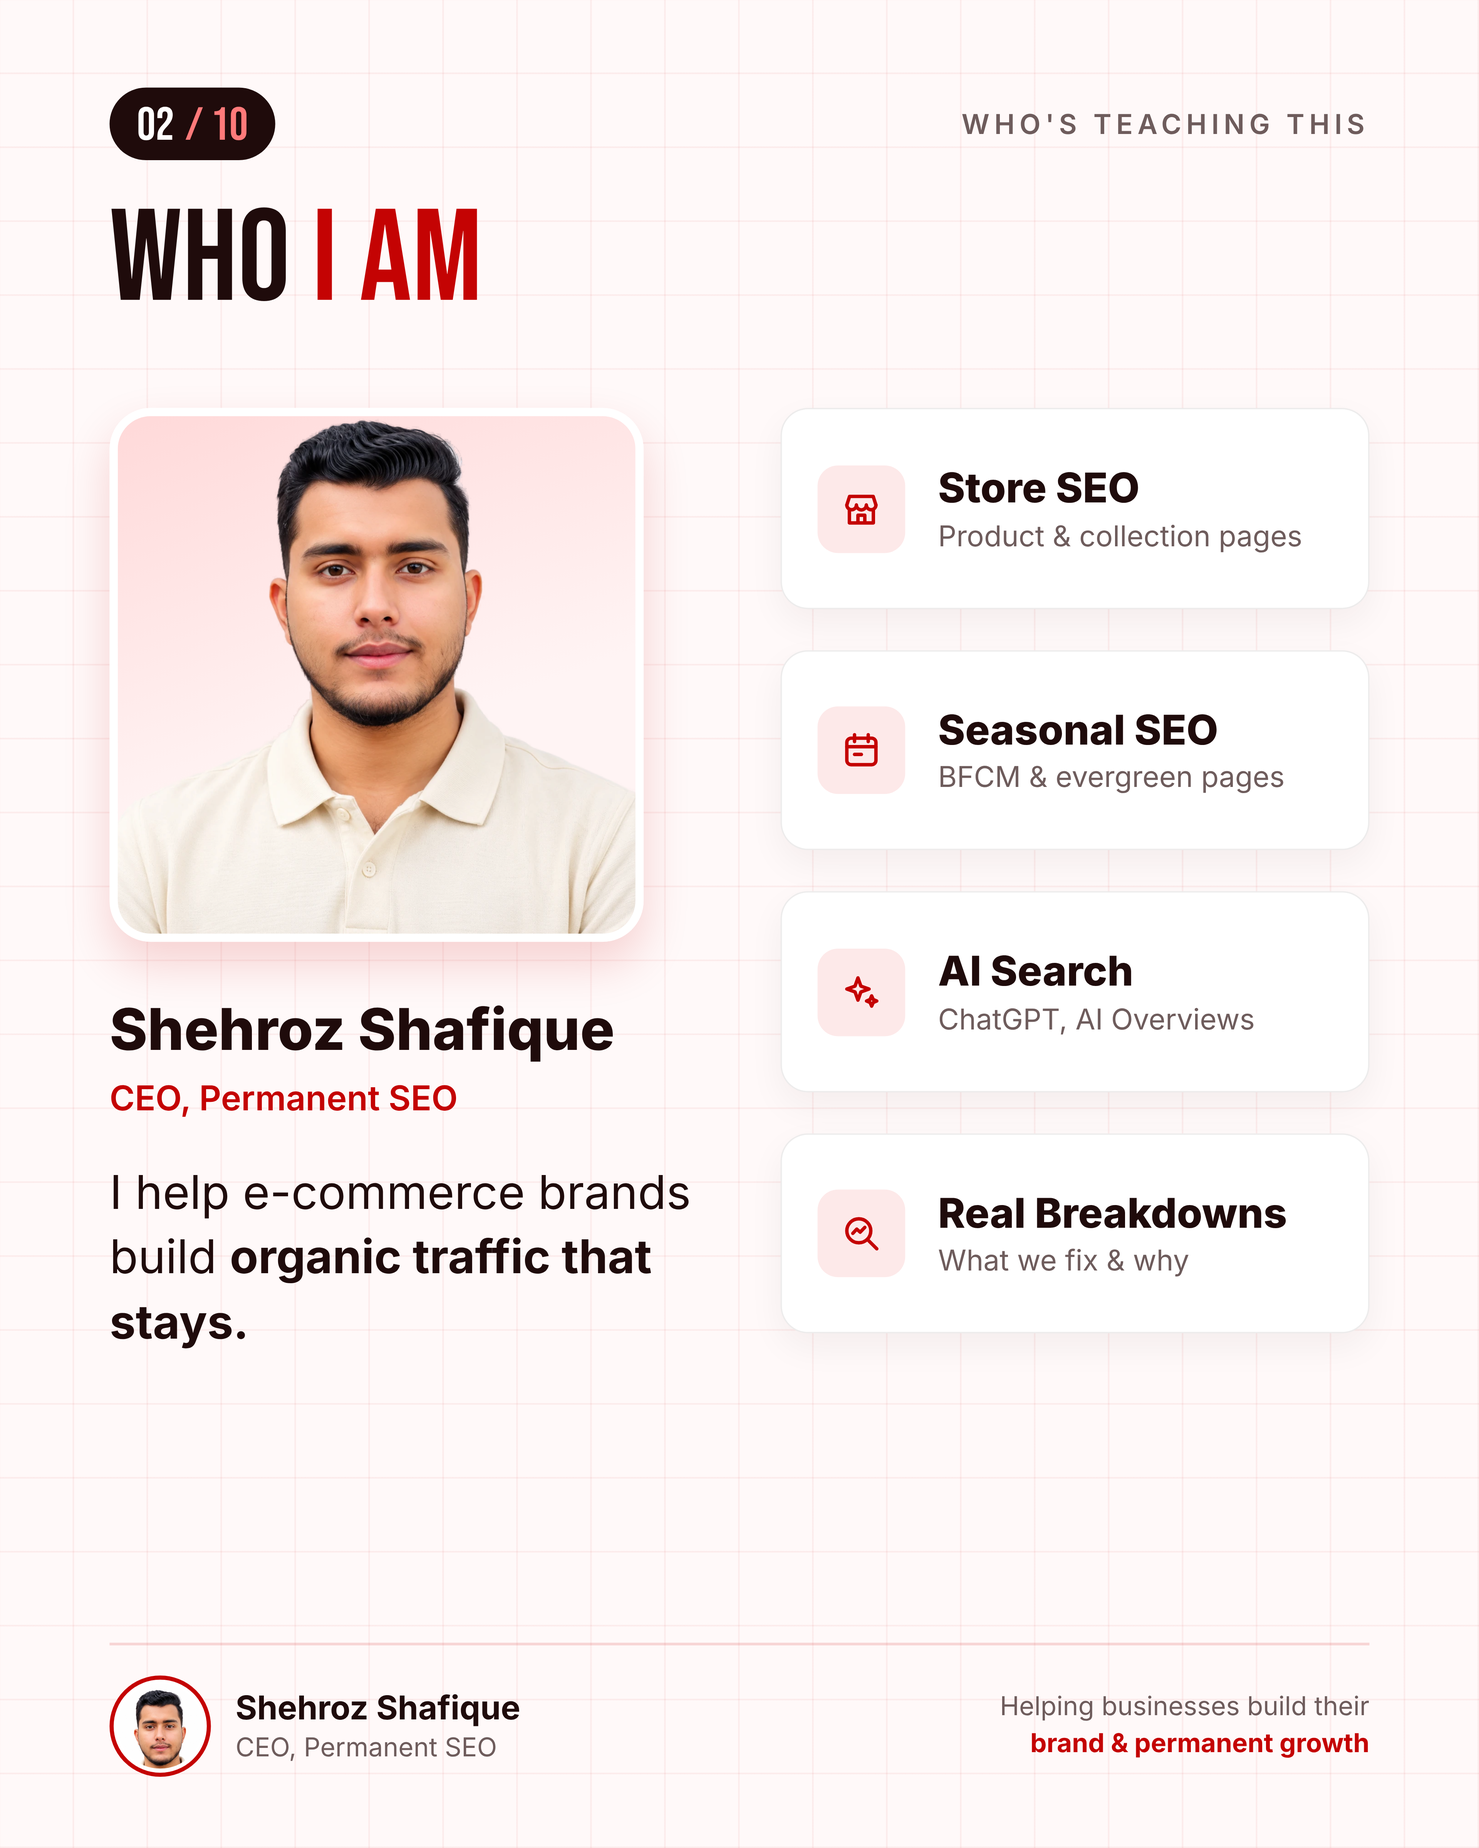
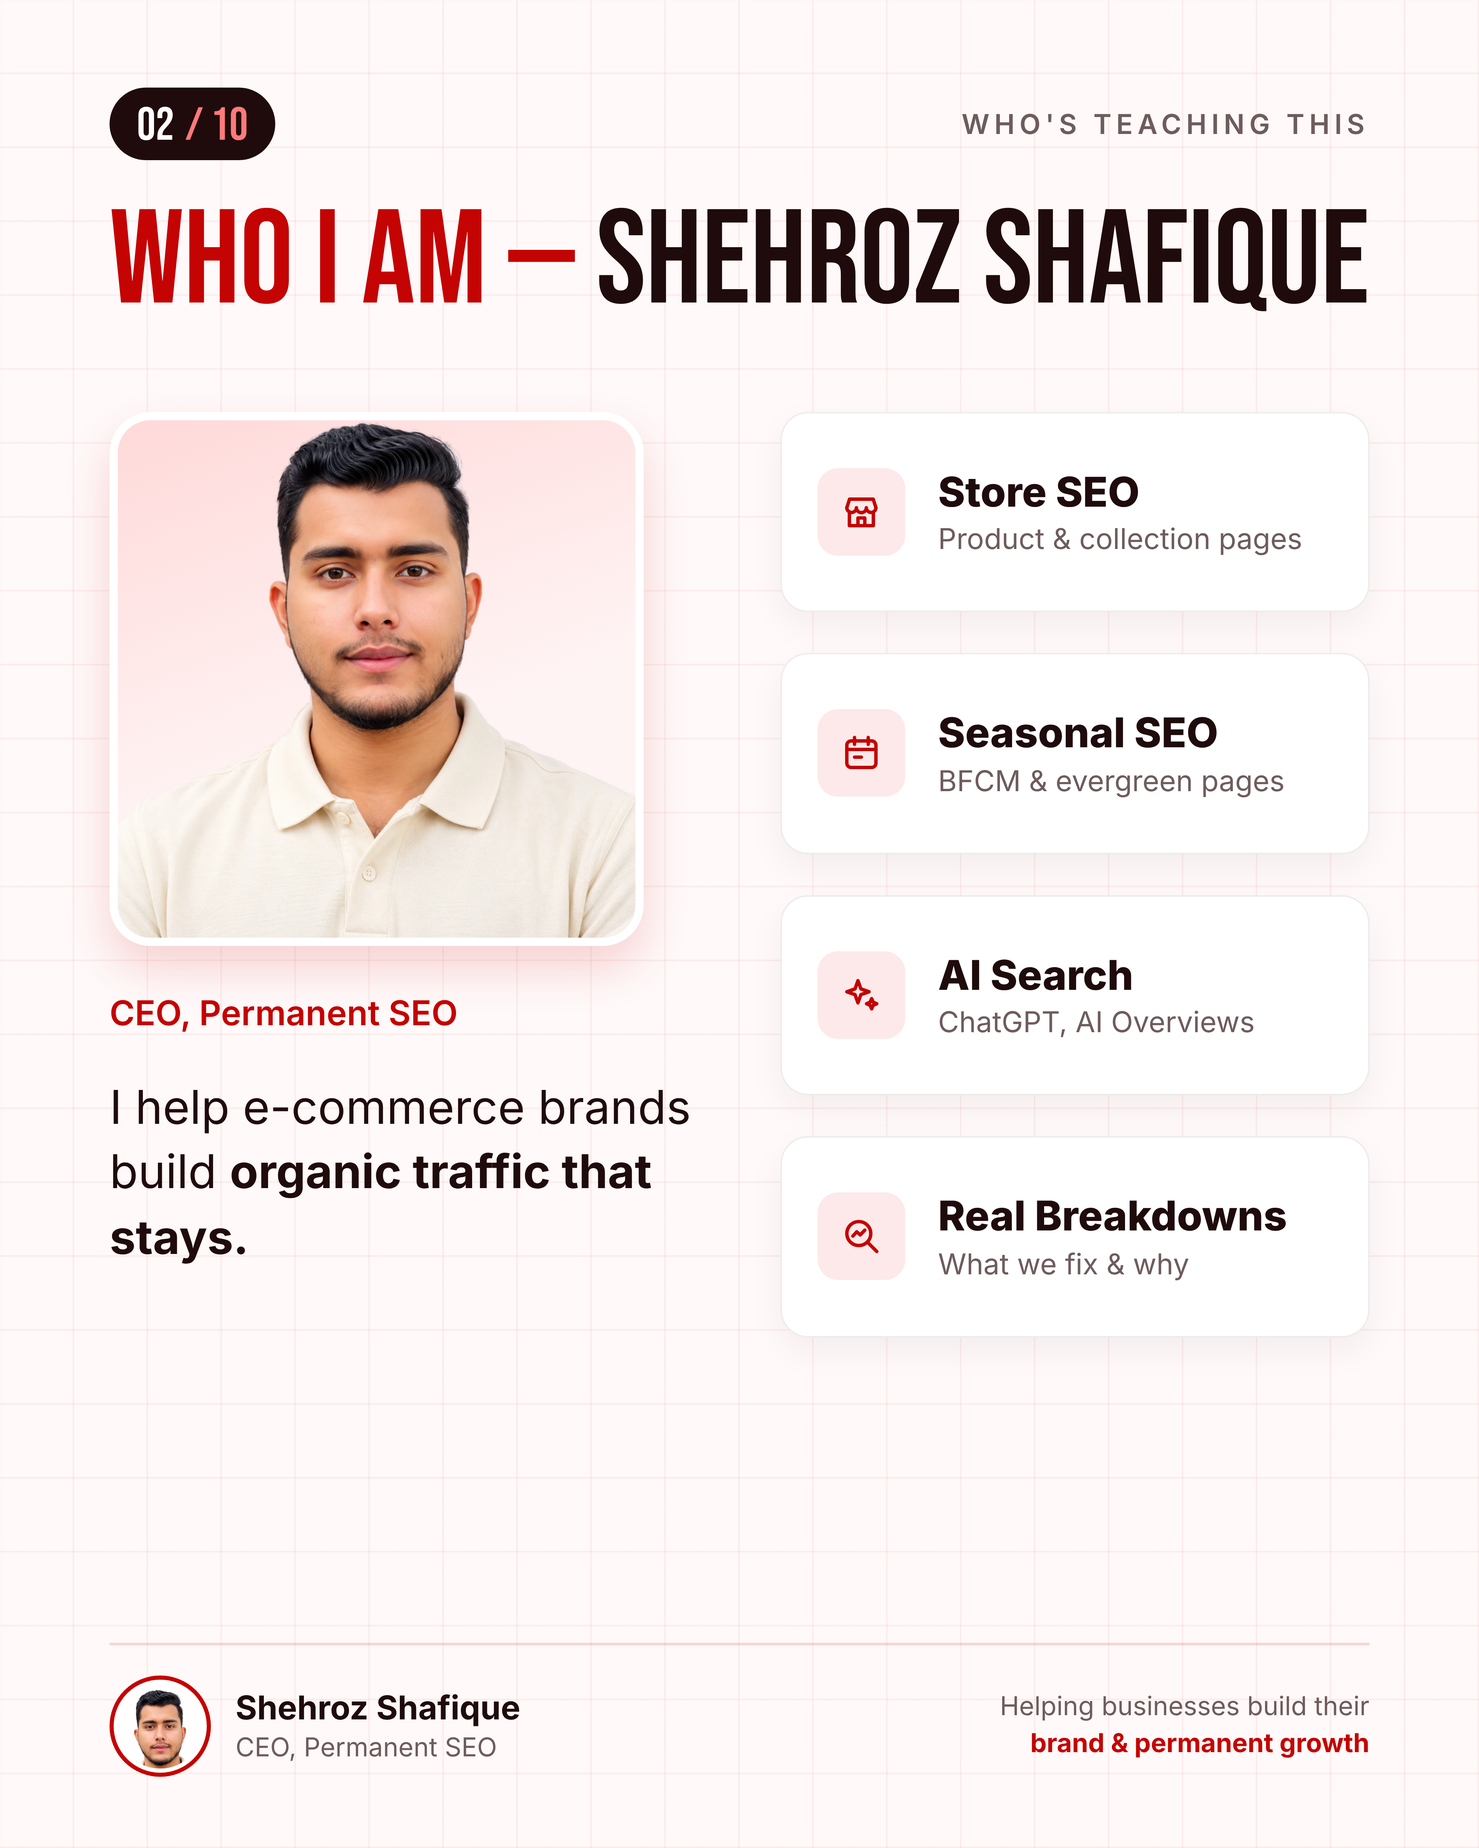
E-commerce carousel: full-width single-line headings at an even size on all slides
Claude-Session: https://claude.ai/code/session_0118e6rj6ZpTnCrKoAcs9YgW

diff --git a/carousels/ecommerce-seo-8-reasons/slide-07-speed-links.html b/carousels/ecommerce-seo-8-reasons/slide-07-speed-links.html
@@ -1,6 +1,6 @@
 <!doctype html><html><head><meta charset="utf-8"><link rel="stylesheet" href="common.css"><style>
 .rk{font-family:Bebas;font-size:34px;letter-spacing:.5px;color:var(--red);line-height:1}
-.c1{position:absolute;left:80px;right:80px;top:380px;height:380px;display:flex;align-items:center;gap:42px;padding:0 40px}
+.c1{position:absolute;left:80px;right:80px;top:290px;height:400px;display:flex;align-items:center;gap:42px;padding:0 40px}
 .phone{flex:none;width:180px;height:310px;border-radius:30px;border:12px solid var(--ink);background:#fff;padding:18px 14px;position:relative}
 .phone i{display:block;border-radius:6px;background:#F1E7E7}
 .phone .sp{position:absolute;left:50%;bottom:24px;width:44px;height:44px;margin-left:-22px;border-radius:50%;border:4px solid #EAD9D9;border-top-color:var(--red);transform:rotate(30deg)}
@@ -10,11 +10,11 @@
 .speed .b{width:480px;height:16px;border-radius:8px;background:linear-gradient(90deg,#2FA36B 0 33%,#E9A23B 33% 66%,var(--red) 66% 100%)}
 .speed span{font-weight:600;font-size:19px;color:var(--muted)}
 .lcp{margin-top:14px;font-size:19px;color:var(--muted)}
-.c2{position:absolute;left:80px;right:80px;top:790px;height:370px;padding:32px 40px}
+.c2{position:absolute;left:80px;right:80px;top:720px;height:440px;padding:32px 40px}
 .c2 .t{display:flex;align-items:baseline;gap:20px}
 .c2 h3{font-weight:800;font-size:38px}
 .c2 p{margin-top:10px;font-size:23px}
-.dia{position:absolute;left:40px;right:40px;top:140px;height:200px}
+.dia{position:absolute;left:40px;right:40px;top:180px;height:200px}
 .dia svg{position:absolute;left:0;top:0}
 .nd{position:absolute;height:40px;padding:0 18px;border-radius:10px;background:#F6EDED;font-weight:600;font-size:15.5px;display:flex;align-items:center;justify-content:center;transform:translateX(-50%);white-space:nowrap}
 .nd.money{background:var(--red);color:#fff}
@@ -23,7 +23,7 @@
 </style></head><body>
 <div class="wrap">
  <div class="toprow"><div class="count">07 <span>/ 10</span></div><div class="label">REASONS 5 + 6 OF 8</div></div>
- <div class="h"><span><span class="r">05 + 06 —</span> SPEED &amp;</span><span>INTERNAL LINKS</span></div>
+ <div class="h"><span class="fit"><span class="r">05 + 06 —</span> SPEED &amp; INTERNAL LINKS</span></div>
 </div>
 <div class="c1 card">
  <div class="phone"><i style="width:70px;height:12px"></i><i style="margin-top:14px;height:84px"></i><i style="margin-top:16px;height:10px"></i><i style="margin-top:10px;width:96px;height:10px"></i><i style="margin-top:10px;width:60px;height:10px"></i><div class="sp"></div></div>
@@ -59,4 +59,5 @@
  <div class="me"><div class="av"><img src="img/avatar.png"></div><div><b>Shehroz Shafique</b><span>CEO, Permanent SEO</span></div></div>
  <div class="tagline">Helping businesses build their<br><b>brand &amp; permanent growth</b></div>
 </div>
+<script src="fit.js"></script>
 </body></html>

diff --git a/carousels/ecommerce-seo-8-reasons/slide-08-titles-blind-spots.html b/carousels/ecommerce-seo-8-reasons/slide-08-titles-blind-spots.html
@@ -1,10 +1,10 @@
 <!doctype html><html><head><meta charset="utf-8"><link rel="stylesheet" href="common.css"><style>
 .rk{font-family:Bebas;font-size:34px;letter-spacing:.5px;color:var(--red);line-height:1}
-.cols{position:absolute;left:80px;right:80px;top:390px;height:770px;display:flex;justify-content:space-between}
+.cols{position:absolute;left:80px;right:80px;top:300px;height:860px;display:flex;justify-content:space-between}
 .col{width:445px;padding:34px 30px;border-radius:24px;position:relative}
 .col h3{margin-top:12px;font-weight:800;font-size:37px;line-height:1.1}
 .col>p{margin-top:12px;font-size:25px;line-height:1.35}
-.bf{margin-top:34px;padding:20px 22px;border-radius:16px;background:#F7F1F1;border:2px solid #E6D8D8}
+.bf{margin-top:44px;padding:20px 22px;border-radius:16px;background:#F7F1F1;border:2px solid #E6D8D8}
 .bf .k{font-weight:700;font-size:16px;letter-spacing:2.5px;color:#6E5C5C}
 .bf b{display:block;margin-top:8px;font-weight:800;font-size:33px;line-height:1.15}
 .af{background:var(--tint);border-color:rgba(196,3,3,.3)}
@@ -14,7 +14,7 @@
 .tip{position:absolute;left:30px;right:30px;bottom:38px;display:flex;align-items:center;gap:14px;font-size:20px;color:var(--muted)}
 .tip i{flex:none;width:46px;height:46px;border-radius:11px;background:var(--tint);display:flex;align-items:center;justify-content:center}
 .tip svg{width:22px;height:22px;stroke:var(--red);fill:none;stroke-width:2.4;stroke-linecap:round;stroke-linejoin:round}
-.gsc{margin-top:30px;border:1.5px solid rgba(31,11,11,.1);border-radius:18px;padding:20px 18px 14px}
+.gsc{margin-top:40px;border:1.5px solid rgba(31,11,11,.1);border-radius:18px;padding:20px 18px 14px}
 .gsc .tt{font-weight:700;font-size:17px}
 .kp{margin-top:14px;display:flex;gap:10px}
 .kp div{flex:1;height:64px;border-radius:10px;padding:10px 12px;color:#fff;font-weight:600;font-size:14px}
@@ -23,7 +23,7 @@
 </style></head><body>
 <div class="wrap">
  <div class="toprow"><div class="count">08 <span>/ 10</span></div><div class="label">REASONS 7 + 8 OF 8</div></div>
- <div class="h"><span><span class="r">07 + 08 —</span> TITLES &amp;</span><span>BLIND SPOTS</span></div>
+ <div class="h"><span class="fit"><span class="r">07 + 08 —</span> TITLES &amp; BLIND SPOTS</span></div>
 </div>
 <div class="cols">
  <div class="col card">
@@ -56,4 +56,5 @@
  <div class="me"><div class="av"><img src="img/avatar.png"></div><div><b>Shehroz Shafique</b><span>CEO, Permanent SEO</span></div></div>
  <div class="tagline">Helping businesses build their<br><b>brand &amp; permanent growth</b></div>
 </div>
+<script src="fit.js"></script>
 </body></html>

diff --git a/carousels/ecommerce-seo-8-reasons/slide-09-the-fix.html b/carousels/ecommerce-seo-8-reasons/slide-09-the-fix.html
@@ -1,8 +1,8 @@
 <!doctype html><html><head><meta charset="utf-8"><link rel="stylesheet" href="common.css"><style>
 .lead{margin-top:40px;font-size:38px;line-height:1.38}
 .lead .r{color:var(--red)}
-.list{position:absolute;left:80px;right:80px;top:580px;padding:8px 40px;border-radius:24px}
-.it{display:flex;align-items:center;gap:26px;padding:30px 0;border-bottom:1.5px solid rgba(31,11,11,.08)}
+.list{position:absolute;left:80px;right:80px;top:500px;padding:14px 40px;border-radius:24px}
+.it{display:flex;align-items:center;gap:26px;padding:38px 0;border-bottom:1.5px solid rgba(31,11,11,.08)}
 .it:last-child{border-bottom:none}
 .ck{flex:none;width:56px;height:56px;border-radius:12px;background:var(--red);display:flex;align-items:center;justify-content:center}
 .ck svg{width:28px;height:28px;stroke:#fff;fill:none;stroke-width:3.4;stroke-linecap:round;stroke-linejoin:round}
@@ -11,13 +11,13 @@
 .it span{display:block;margin-top:6px;font-size:23px;color:var(--muted)}
 .it i{flex:none;width:64px;height:64px;border-radius:14px;background:var(--tint);display:flex;align-items:center;justify-content:center}
 .it i svg{width:30px;height:30px;stroke:var(--red);fill:none;stroke-width:2;stroke-linecap:round;stroke-linejoin:round}
-.min{position:absolute;left:80px;right:80px;top:1085px;display:flex;align-items:center;gap:22px}
+.min{position:absolute;left:80px;right:80px;top:1075px;display:flex;align-items:center;gap:22px}
 .min .bx{flex:none;height:78px;padding:6px 24px 0;border-radius:14px;background:var(--red);color:#fff;font-family:Bebas;font-size:54px;display:flex;align-items:center;box-shadow:0 10px 22px rgba(196,3,3,.25)}
 .min p{font-size:23px;line-height:1.42;color:var(--muted)}
 </style></head><body>
 <div class="wrap">
  <div class="toprow"><div class="count">09 <span>/ 10</span></div><div class="label">THE SOLUTION</div></div>
- <div class="h"><span>THE FIX STARTS</span><span>WITH A <span class="r">CHECK.</span></span></div>
+ <div class="h"><span class="fit">THE FIX STARTS WITH A <span class="r">CHECK.</span></span></div>
  <div class="lead">Not a bigger budget.<br><b>A <span class="r">30-minute</span> look at the right reports.</b></div>
 </div>
 <div class="list card">
@@ -30,4 +30,5 @@
  <div class="me"><div class="av"><img src="img/avatar.png"></div><div><b>Shehroz Shafique</b><span>CEO, Permanent SEO</span></div></div>
  <div class="tagline">Helping businesses build their<br><b>brand &amp; permanent growth</b></div>
 </div>
+<script src="fit.js"></script>
 </body></html>

diff --git a/carousels/ecommerce-seo-8-reasons/slide-10-cta.html b/carousels/ecommerce-seo-8-reasons/slide-10-cta.html
@@ -5,8 +5,8 @@ body{color:#fff;background:radial-gradient(70% 45% at 100% 0%,rgba(255,80,80,.35
 .count{background:#fff;color:var(--red)}.count span{color:var(--red);opacity:.6}
 .label{color:#FFD0D0}
 .h{color:#fff}
-.cm{margin-top:56px;font-weight:700;font-size:32px;letter-spacing:5px;color:#FFC2C2}
-.leaks{margin-top:4px;font-family:Bebas;font-size:240px;line-height:.85;color:#fff;letter-spacing:2px}
+.cm{margin-top:90px;font-weight:700;font-size:32px;letter-spacing:5px;color:#FFC2C2}
+.leaks{margin-top:4px;font-family:Bebas;font-size:270px;line-height:.85;color:#fff;letter-spacing:2px}
 .leaks span{color:#FFB0B0}
 .get{position:absolute;left:80px;top:790px;width:500px;font-weight:600;font-size:35px;line-height:1.36}
 .get b{color:#FFC9C9;font-weight:700}
@@ -32,7 +32,7 @@ body{color:#fff;background:radial-gradient(70% 45% at 100% 0%,rgba(255,80,80,.35
 </style></head><body>
 <div class="wrap">
  <div class="toprow"><div class="count">10 <span>/ 10</span></div><div class="label">FREE CHECKLIST</div></div>
- <div class="h"><span>IS YOUR STORE</span><span>LOSING TRAFFIC?</span></div>
+ <div class="h"><span class="fit">IS YOUR STORE LOSING TRAFFIC?</span></div>
  <div class="cm">COMMENT</div>
  <div class="leaks"><span>“</span>LEAKS<span>”</span></div>
 </div>
@@ -48,4 +48,5 @@ body{color:#fff;background:radial-gradient(70% 45% at 100% 0%,rgba(255,80,80,.35
  <div class="me"><div class="av"><img src="img/avatar.png"></div><div><b>Shehroz Shafique</b><span>CEO, Permanent SEO</span></div></div>
  <div class="tagline">Helping businesses build their<br><b>brand &amp; permanent growth</b></div>
 </div>
+<script src="fit.js"></script>
 </body></html>

diff --git a/carousels/ecommerce-seo-8-reasons/slide-02-who-i-am.html b/carousels/ecommerce-seo-8-reasons/slide-02-who-i-am.html
@@ -4,7 +4,7 @@
 .photo{width:390px;height:390px;border-radius:30px;border:6px solid #fff;box-shadow:0 16px 34px rgba(196,3,3,.16);overflow:hidden;position:relative;background:linear-gradient(160deg,#FFD9D9,#FFF4F4 60%)}
 .photo img{position:absolute;left:-20px;bottom:-4px;width:418px}
 .name{margin-top:40px;font-weight:800;font-size:42px;line-height:1.15}
-.role{margin-top:10px;font-weight:600;font-size:25px;color:var(--red)}
+.role{margin-top:34px;font-weight:600;font-size:25px;color:var(--red)}
 .bio{margin-top:30px;font-size:34px;line-height:1.4}
 .bio b{font-weight:700}
 .list{width:430px;display:flex;flex-direction:column;gap:30px}
@@ -16,11 +16,10 @@
 </style></head><body>
 <div class="wrap">
  <div class="toprow"><div class="count">02 <span>/ 10</span></div><div class="label">WHO'S TEACHING THIS</div></div>
- <div class="h"><span>WHO <span class="r">I AM</span></span></div>
+ <div class="h"><span class="fit"><span class="r">WHO I AM —</span> SHEHROZ SHAFIQUE</span></div>
  <div class="cols">
   <div class="left">
    <div class="photo"><img src="img/cutout.png"></div>
-   <div class="name">Shehroz Shafique</div>
    <div class="role">CEO, Permanent SEO</div>
    <div class="bio">I help e-commerce brands build <b>organic traffic that stays.</b></div>
   </div>
@@ -36,4 +35,5 @@
  <div class="me"><div class="av"><img src="img/avatar.png"></div><div><b>Shehroz Shafique</b><span>CEO, Permanent SEO</span></div></div>
  <div class="tagline">Helping businesses build their<br><b>brand &amp; permanent growth</b></div>
 </div>
+<script src="fit.js"></script>
 </body></html>

diff --git a/carousels/ecommerce-seo-8-reasons/slide-06-out-of-stock.html b/carousels/ecommerce-seo-8-reasons/slide-06-out-of-stock.html
@@ -33,7 +33,7 @@
 </style></head><body>
 <div class="wrap">
  <div class="toprow"><div class="count">06 <span>/ 10</span></div><div class="label">REASON 4 OF 8</div></div>
- <div class="h"><span><span class="r">04 —</span> OUT-OF-STOCK 404<span style="font-size:.72em">S</span></span></div>
+ <div class="h"><span class="fit"><span class="r">04 —</span> OUT-OF-STOCK 404<span style="font-size:.72em">S</span></span></div>
  <div class="lead">Removing products can cost you links and rankings.<br><b>Keep useful pages live and show alternatives.</b></div>
  <div class="cmp">
   <div class="col">
@@ -68,4 +68,5 @@
  <div class="me"><div class="av"><img src="img/avatar.png"></div><div><b>Shehroz Shafique</b><span>CEO, Permanent SEO</span></div></div>
  <div class="tagline">Helping businesses build their<br><b>brand &amp; permanent growth</b></div>
 </div>
+<script src="fit.js"></script>
 </body></html>

diff --git a/carousels/ecommerce-seo-8-reasons/slide-04-duplicate-urls.html b/carousels/ecommerce-seo-8-reasons/slide-04-duplicate-urls.html
@@ -25,7 +25,7 @@
 </svg>
 <div class="wrap">
  <div class="toprow"><div class="count">04 <span>/ 10</span></div><div class="label">REASON 2 OF 8</div></div>
- <div class="h"><span><span class="r">02 —</span> DUPLICATE URLS</span></div>
+ <div class="h"><span class="fit"><span class="r">02 —</span> DUPLICATE URLS</span></div>
  <div class="lead">Filters, sorting and variants can create hundreds of <span style="white-space:nowrap">near-identical</span> URLs. <b>Check your canonicals.</b></div>
 </div>
 <div class="top card"><div class="k">ONE COLLECTION PAGE</div><b>/shoes</b></div>
@@ -40,4 +40,5 @@
  <div class="me"><div class="av"><img src="img/avatar.png"></div><div><b>Shehroz Shafique</b><span>CEO, Permanent SEO</span></div></div>
  <div class="tagline">Helping businesses build their<br><b>brand &amp; permanent growth</b></div>
 </div>
+<script src="fit.js"></script>
 </body></html>

diff --git a/carousels/ecommerce-seo-8-reasons/slide-03-thin-pages.html b/carousels/ecommerce-seo-8-reasons/slide-03-thin-pages.html
@@ -27,7 +27,7 @@
 </style></head><body>
 <div class="wrap">
  <div class="toprow"><div class="count">03 <span>/ 10</span></div><div class="label">REASON 1 OF 8</div></div>
- <div class="h"><span><span class="r">01 —</span> THIN COLLECTION PAGES</span></div>
+ <div class="h"><span class="fit"><span class="r">01 —</span> THIN COLLECTION PAGES</span></div>
  <div class="lead">A grid of products and no text. <b>Google can't tell what the page is about or why it should rank.</b></div>
  <div class="cmp">
   <div class="col">
@@ -61,4 +61,5 @@
  <div class="me"><div class="av"><img src="img/avatar.png"></div><div><b>Shehroz Shafique</b><span>CEO, Permanent SEO</span></div></div>
  <div class="tagline">Helping businesses build their<br><b>brand &amp; permanent growth</b></div>
 </div>
+<script src="fit.js"></script>
 </body></html>

diff --git a/carousels/ecommerce-seo-8-reasons/slide-05-seasonal-pages.html b/carousels/ecommerce-seo-8-reasons/slide-05-seasonal-pages.html
@@ -21,7 +21,7 @@
 </style></head><body>
 <div class="wrap">
  <div class="toprow"><div class="count">05 <span>/ 10</span></div><div class="label">REASON 3 OF 8</div></div>
- <div class="h"><span><span class="r">03 —</span> DELETED SEASONAL PAGES</span></div>
+ <div class="h"><span class="fit"><span class="r">03 —</span> DELETED SEASONAL PAGES</span></div>
  <div class="lead">Every January the Black Friday page gets deleted.<br><b>Every November you start from zero.</b></div>
 </div>
 <div class="tl">
@@ -41,4 +41,5 @@
  <div class="me"><div class="av"><img src="img/avatar.png"></div><div><b>Shehroz Shafique</b><span>CEO, Permanent SEO</span></div></div>
  <div class="tagline">Helping businesses build their<br><b>brand &amp; permanent growth</b></div>
 </div>
+<script src="fit.js"></script>
 </body></html>

diff --git a/carousels/ecommerce-seo-8-reasons/fit.js b/carousels/ecommerce-seo-8-reasons/fit.js
@@ -1,0 +1,16 @@
+// Full-width headings at an even size: each .fit line is scaled to the content
+// width, capped at MAX so short headings don't balloon; any remaining space is
+// closed with letter-spacing. Other lines in the same heading take the same size.
+const MAX=110;
+document.fonts.ready.then(()=>{
+ document.querySelectorAll('.h').forEach(h=>{
+  const el=h.querySelector('.fit');if(!el)return;
+  const W=h.clientWidth;
+  h.style.fontSize='100px';el.style.letterSpacing='0px';
+  const size=Math.min(100*W/el.getBoundingClientRect().width,MAX);
+  h.style.fontSize=size+'px';
+  const n=[...el.textContent].length;
+  const gap=W-el.getBoundingClientRect().width;
+  if(gap>1)el.style.letterSpacing=(gap/(n-1))+'px';
+ });
+});

diff --git a/carousels/ecommerce-seo-8-reasons/common.css b/carousels/ecommerce-seo-8-reasons/common.css
@@ -18,7 +18,8 @@ body{position:relative;font-family:Inter,sans-serif;color:var(--ink);background:
 .label{font-weight:600;font-size:20px;letter-spacing:3.5px;color:var(--muted)}
 /* full-width heading: every .fit line is scaled to the content width */
 .h{margin-top:30px;font-family:Bebas;font-size:95px;line-height:.92;color:var(--ink);letter-spacing:.5px}
-.h>span{display:block;white-space:nowrap}
+.h>span{display:block;white-space:nowrap;width:max-content}
+.h>span.fit{margin-right:-.1em}
 .h .r{color:var(--red)}
 .lead{font-size:33px;line-height:1.42;color:var(--ink)}
 .lead b{font-weight:700}

diff --git a/carousels/ecommerce-seo-8-reasons/slide-01-cover.html b/carousels/ecommerce-seo-8-reasons/slide-01-cover.html
@@ -21,7 +21,7 @@
   <div class="label">E-COMMERCE SEO</div>
  </div>
  <div class="h">
-  <span>YOUR STORE ISN'T <span class="r">INVISIBLE</span></span>
+  <span class="fit">YOUR STORE ISN'T <span class="r">INVISIBLE</span></span>
   <span>BY ACCIDENT.</span>
  </div>
  <div class="bar"></div>
@@ -36,4 +36,5 @@
 </div>
 <div class="namecard card"><b>Shehroz Shafique</b><span>CEO, Permanent SEO</span></div>
 <div class="swipe">SWIPE TO LEARN <svg viewBox="0 0 24 24"><path d="M4 12h16M14 6l6 6-6 6"/></svg></div>
+<script src="fit.js"></script>
 </body></html>
